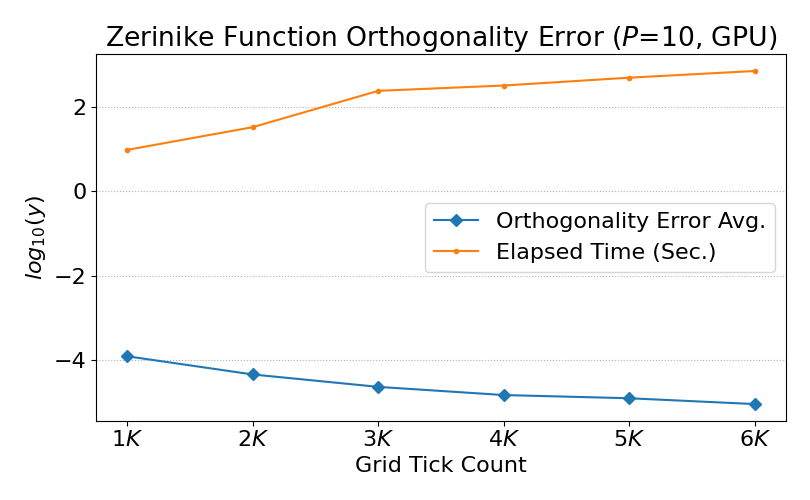
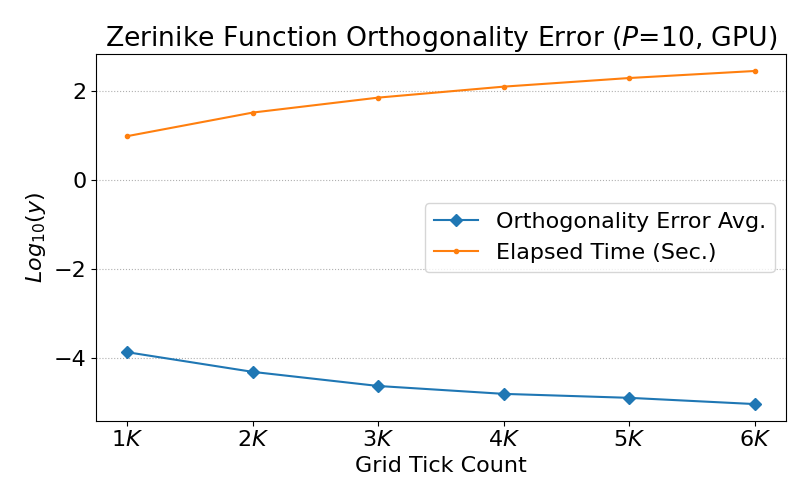
**

diff --git a/ATest_08_Zernike_Orth.py b/ATest_08_Zernike_Orth.py
@@ -181,7 +181,7 @@ def validte_radial_function_ortho( T, Ks, debug=0 ) :
 
             if debug : 
                 print( line2 )            
-                print( f"device = {device}, Radial Tick Count = {resolution:_}, T = {T}, rho_len = {len(rho):_}" )
+                print( f"device = {device}, Radial Tick Count = {resolution:_}, P = {T}, rho_len = {len(rho):_}" )
                 print( f"Elapsed time = {elapsed:,.3f}, Error average = {error_avg:,.8f}" )
             pass
         pass
@@ -257,7 +257,7 @@ def validte_radial_function_ortho( T, Ks, debug=0 ) :
     print_curr_time()
 pass # -- validte_radial_polynomial
 
-def test_zernike_function_ortho( T, Ks, use_gpu, use_hash=0, debug = 0 ) : 
+def test_zernike_function_ortho( T, Ks, use_gpu=1, use_hash=0, debug = 0 ) : 
     print()
 
     hash = {} if use_hash else None
@@ -275,7 +275,7 @@ def test_zernike_function_ortho( T, Ks, use_gpu, use_hash=0, debug = 0 ) :
 
         if 1 or debug : 
             print( line2 )
-            print( f"K = {K}, Resolution = {resolution:_}, T = {T}", flush=1 )
+            print( f"K = {K}, Resolution = {resolution:_}, P = {T}", flush=1 )
         pass
         
         then = time.time() 
@@ -349,7 +349,7 @@ def test_zernike_function_ortho( T, Ks, use_gpu, use_hash=0, debug = 0 ) :
 
     chart.set_title( f"Zerinike Function Orthogonality Error ($P$={T}, {device_name})" )
     chart.set_xlabel( "Grid Tick Count" )
-    chart.set_ylabel( "$log_{10}(y)$" )
+    chart.set_ylabel( "$Log_{10}(y)$" )
     chart.set_xticks( Ks ) 
     chart.set_xticklabels( [ f"{int(x)}$K$" for x in Ks ] )
     chart.grid( axis='y', linestyle="dotted" )
